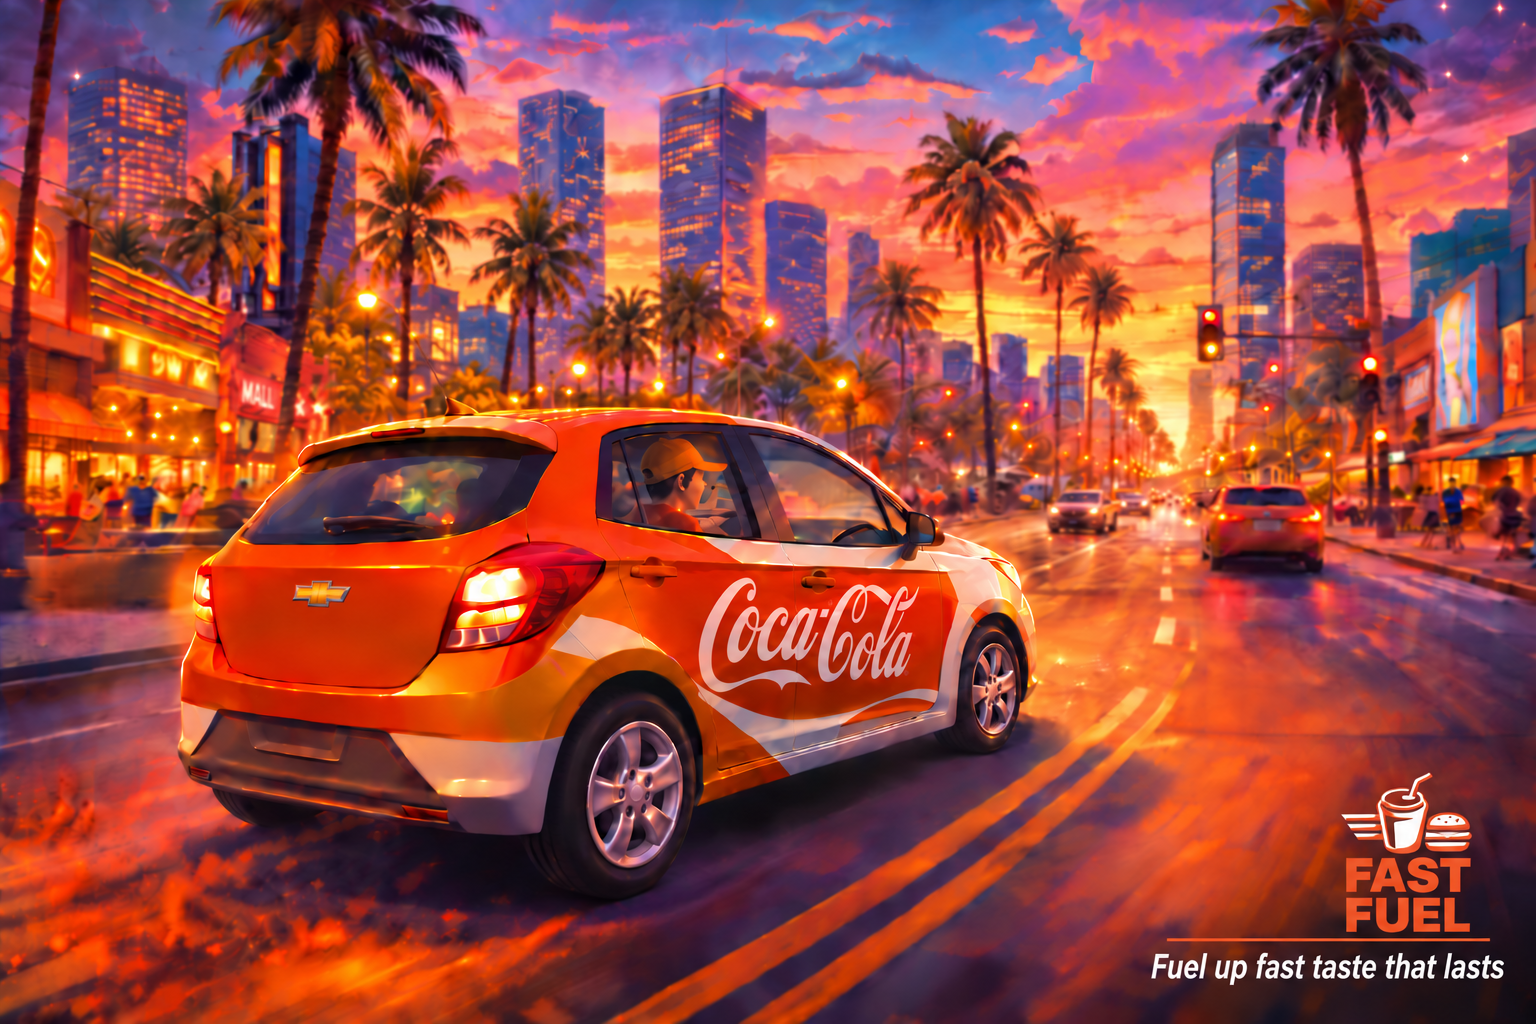
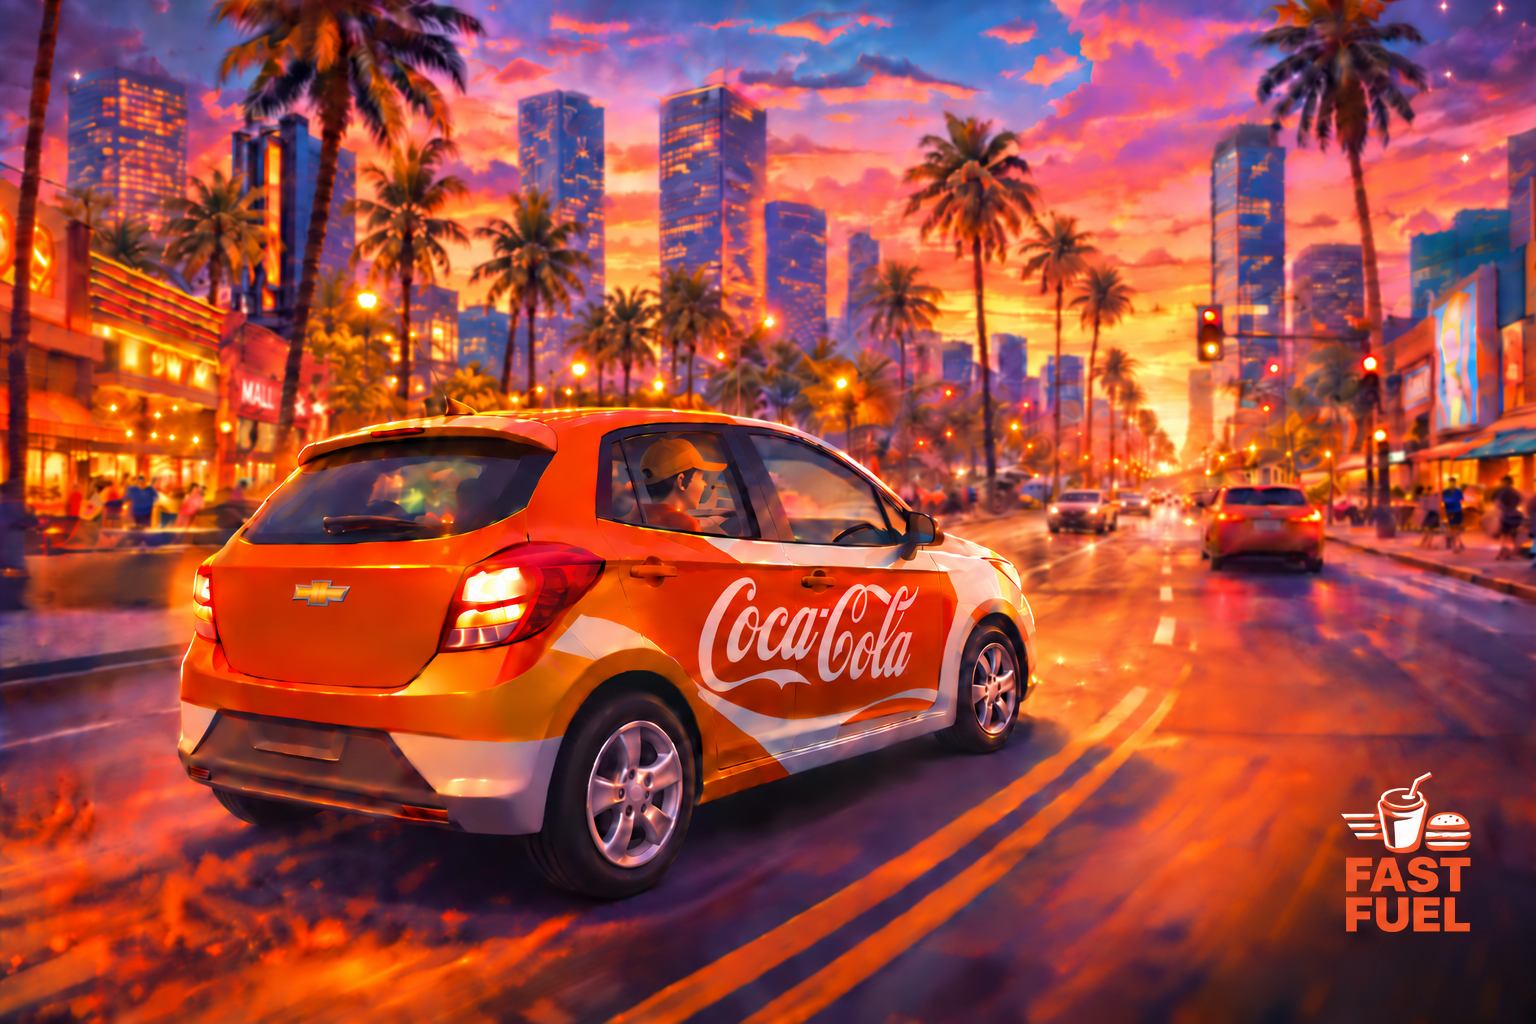
Update carousel image without slogan

diff --git a/src/pages/Home.tsx b/src/pages/Home.tsx
@@ -95,7 +95,6 @@ const desktopCarouselSlides = [
     <Carousel.Item key="slide-5">
         <img src={Chat4} style={{
             width: "100%", height: "100%", objectFit: "cover",
-            objectPosition: "center 12%"
         }} />
     </Carousel.Item>,
 ];
@@ -450,7 +449,7 @@ export default function Home() {
                                     display: { xs: "flex", sm: "none" },
                                     alignItems: "center",
                                     justifyContent: "center",
-                                    mt: -0.2,
+                                    mt: -0.4,
                                     mb: 0.5,
                                     width: "100%",
                                     minHeight: 34,
